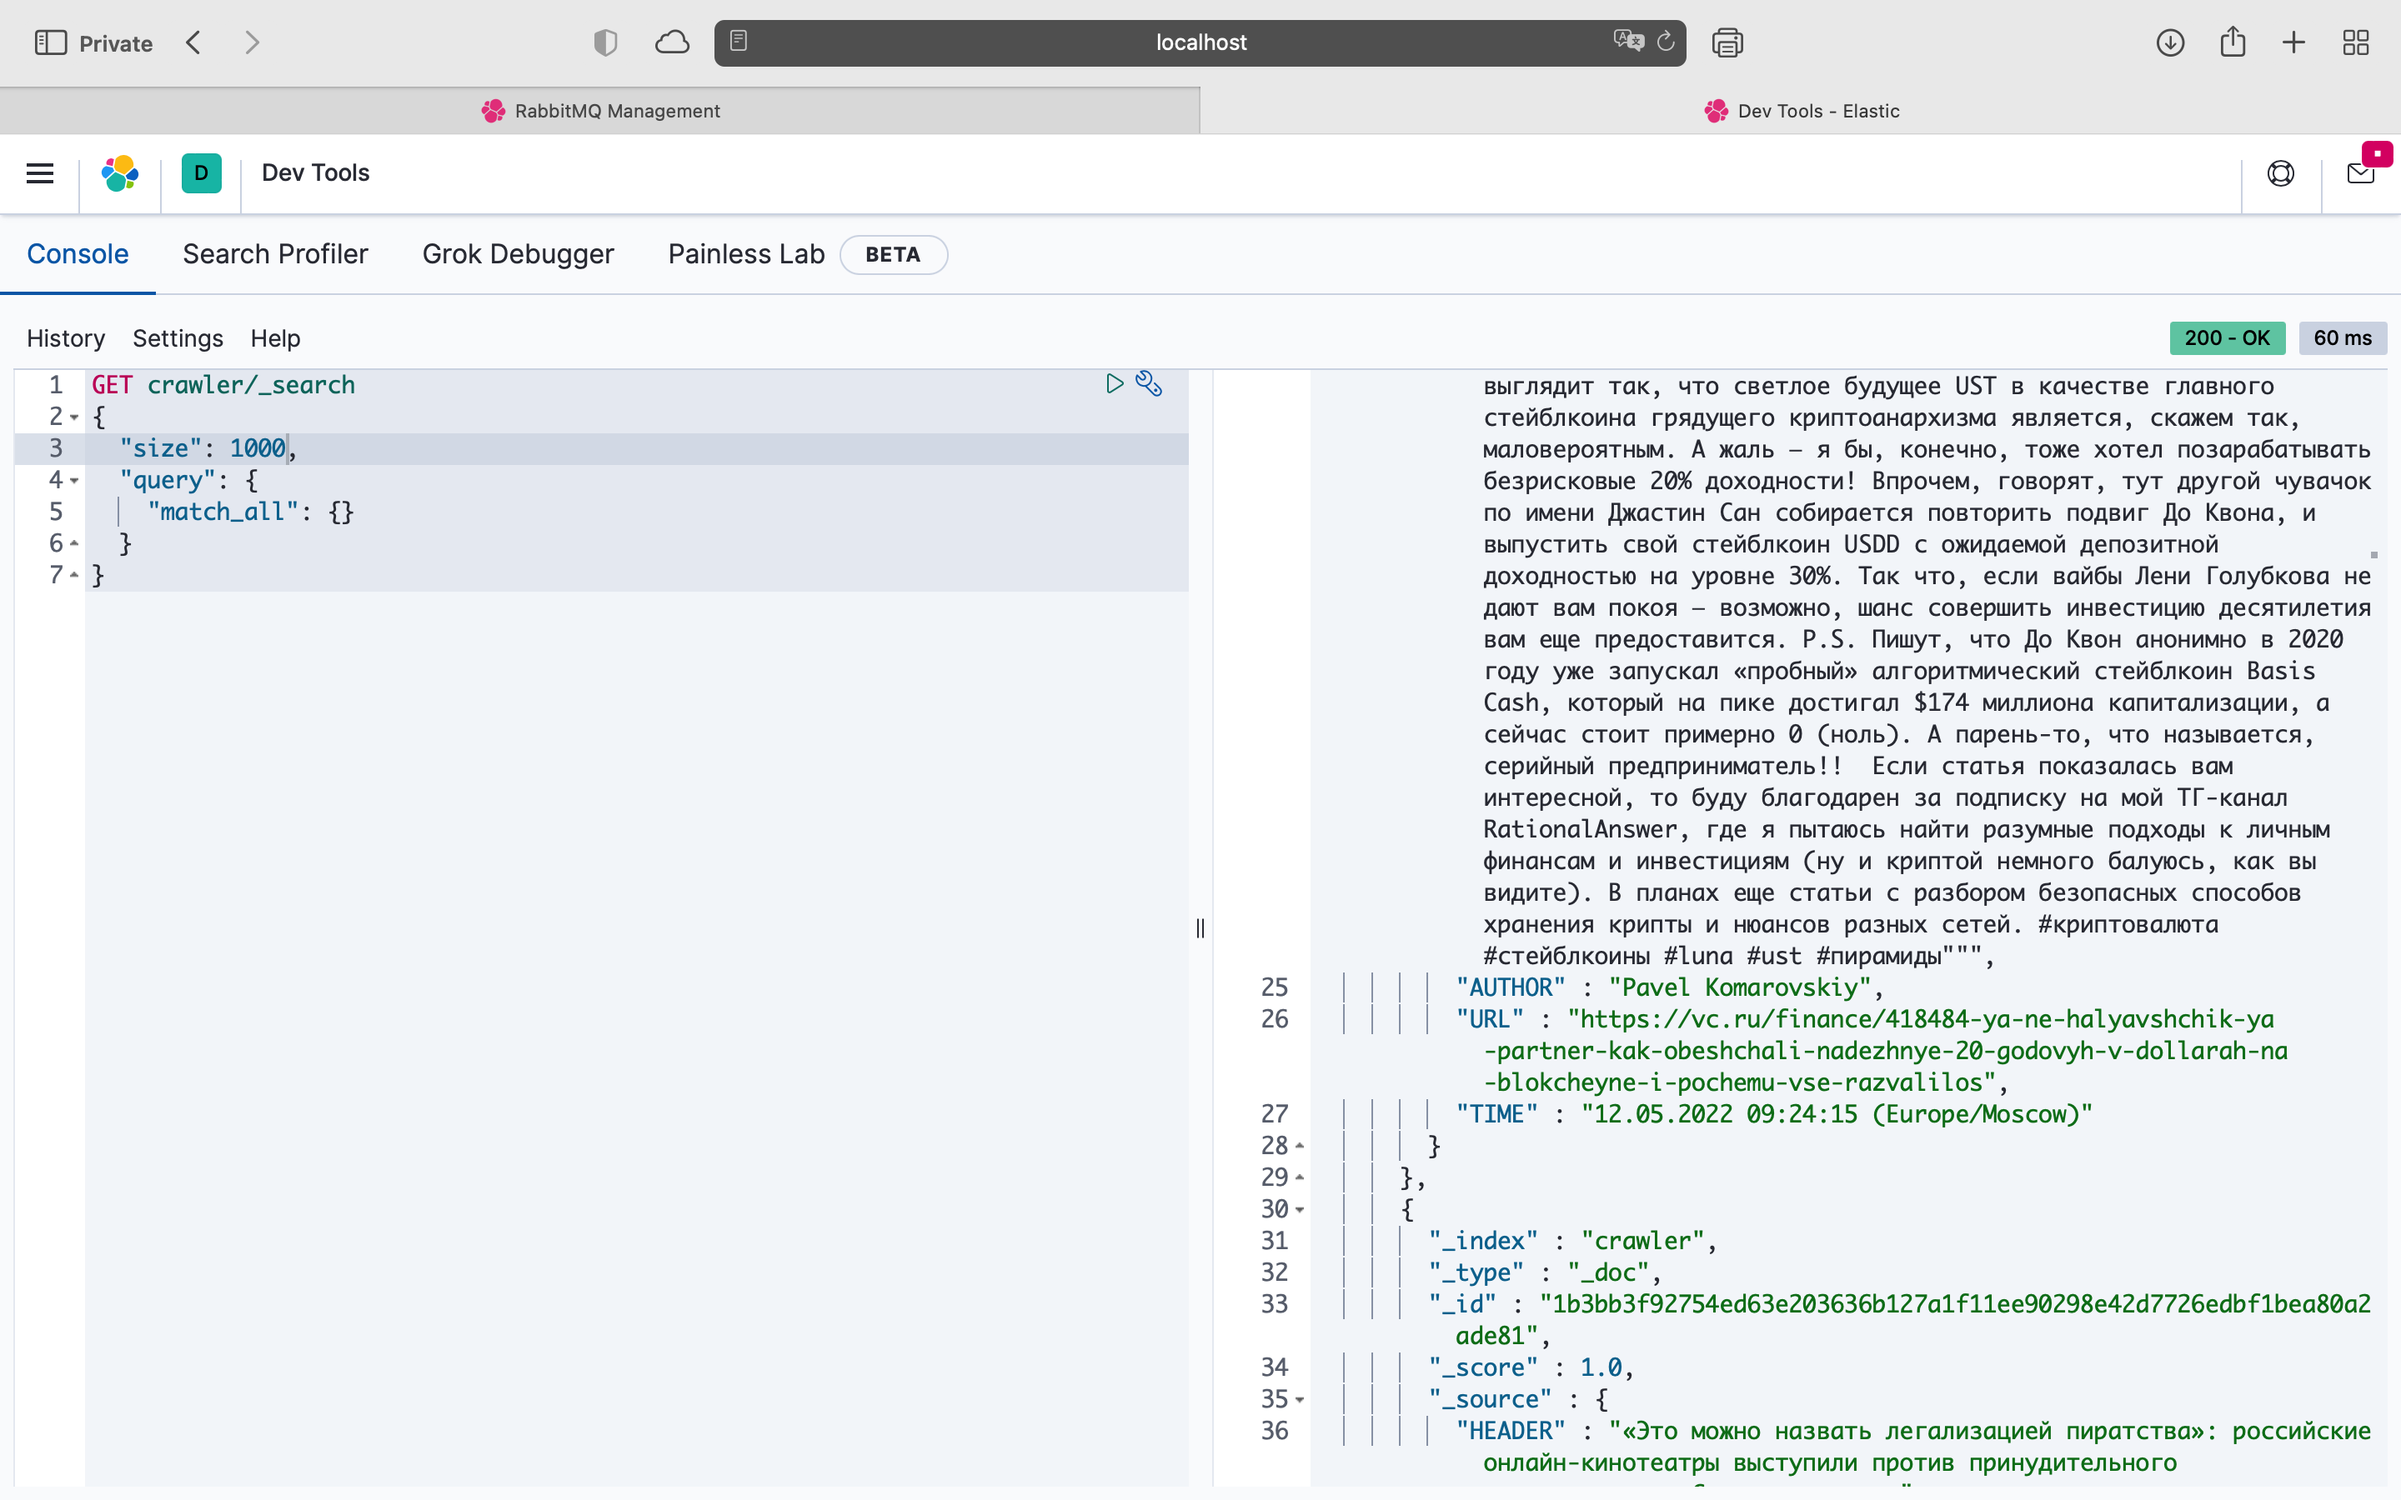
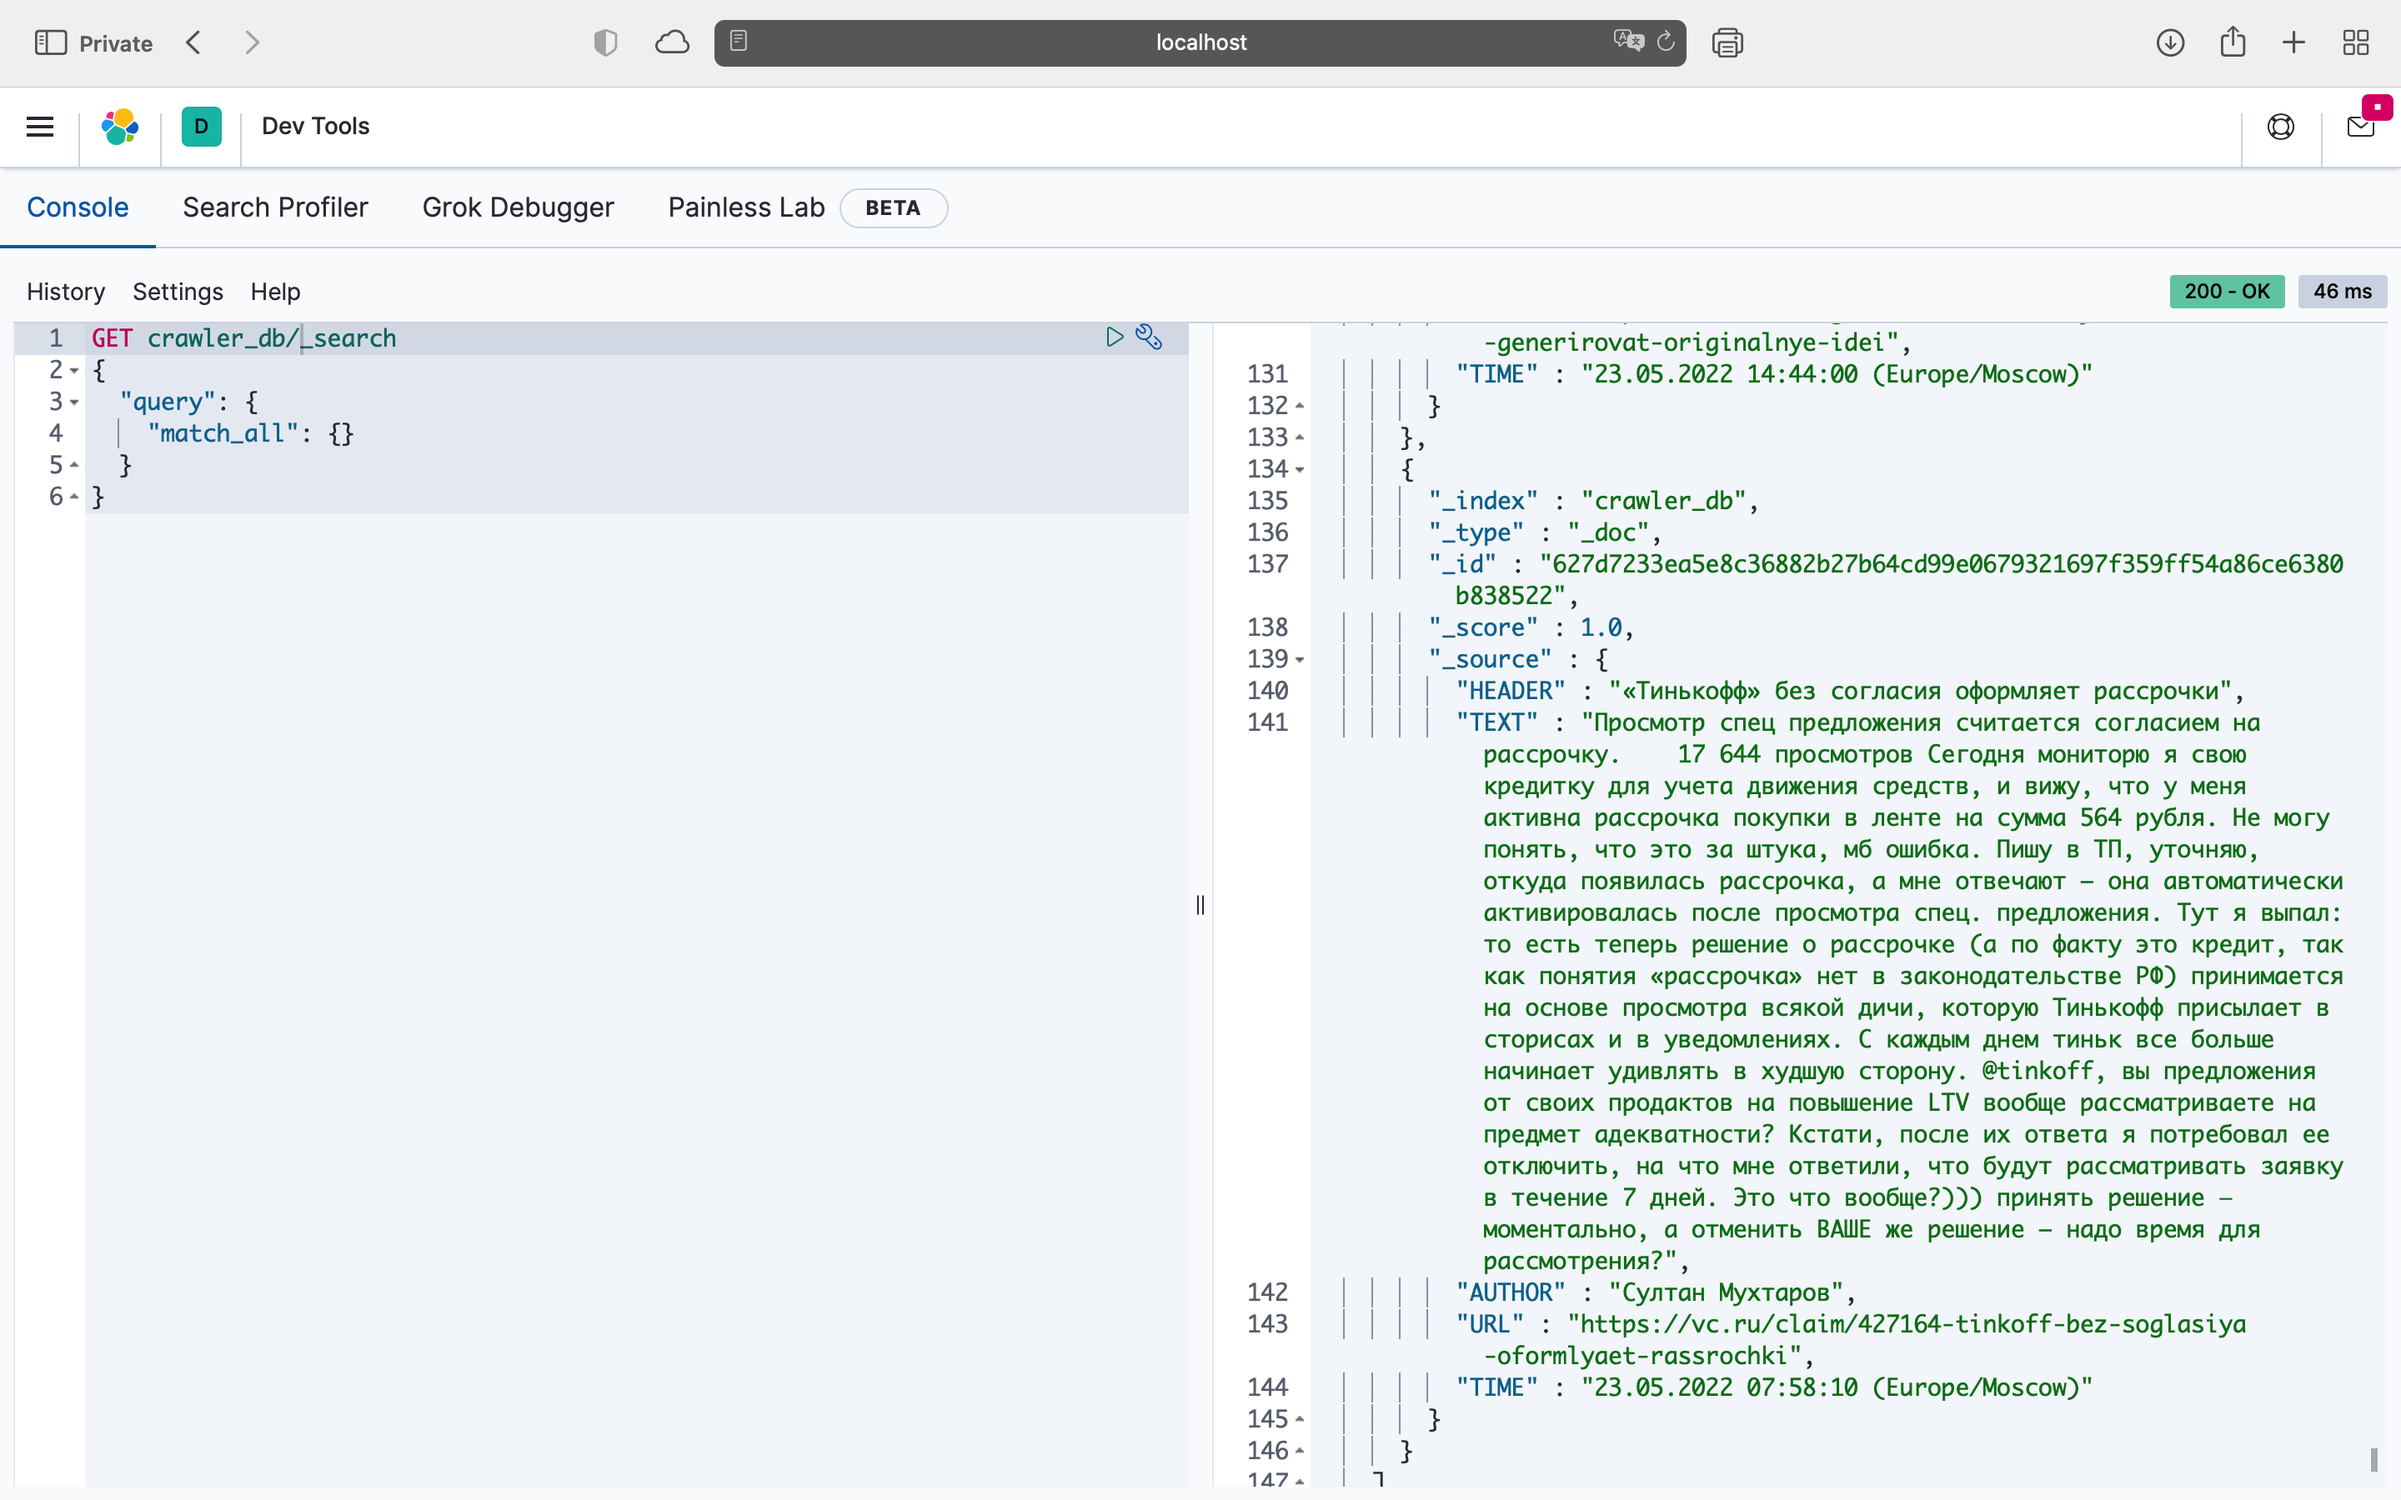
Создана новая таблица в БД

diff --git a/src/main/java/org/example/TaskController.java b/src/main/java/org/example/TaskController.java
@@ -231,7 +231,7 @@ public class TaskController {
                     Settings.builder().put("cluster.name","docker-cluster").build())
                     .addTransportAddress(new TransportAddress(InetAddress.getByName("localhost"), 9300));
             String sha256hex = org.apache.commons.codec.digest.DigestUtils.sha256Hex(json);
-            client.prepareIndex("crawler", "_doc", sha256hex).setSource(json, XContentType.JSON).get();
+            client.prepareIndex("crawler_db", "_doc", sha256hex).setSource(json, XContentType.JSON).get();
         }
     }
 
@@ -242,7 +242,7 @@ public class TaskController {
 
         TermsAggregationBuilder aggregationBuilder = AggregationBuilders.terms("AUTHOR_count").field("AUTHOR.keyword");
         SearchSourceBuilder searchSourceBuilder2 = new SearchSourceBuilder().aggregation(aggregationBuilder);
-        SearchRequest searchRequest2 = new SearchRequest().indices("crawler").source(searchSourceBuilder2);
+        SearchRequest searchRequest2 = new SearchRequest().indices("crawler_db").source(searchSourceBuilder2);
         SearchResponse searchResponse = client.search(searchRequest2).get();
         Terms terms = searchResponse.getAggregations().get("AUTHOR_count");
 

diff --git a/README.md b/README.md
@@ -52,7 +52,7 @@ http://localhost:5601
 ```
 ### Запрос к БД через GUI
 ```
-GET crawler/_search
+GET crawler_db/_search
 {
     "size": 1000,
     "query": {
